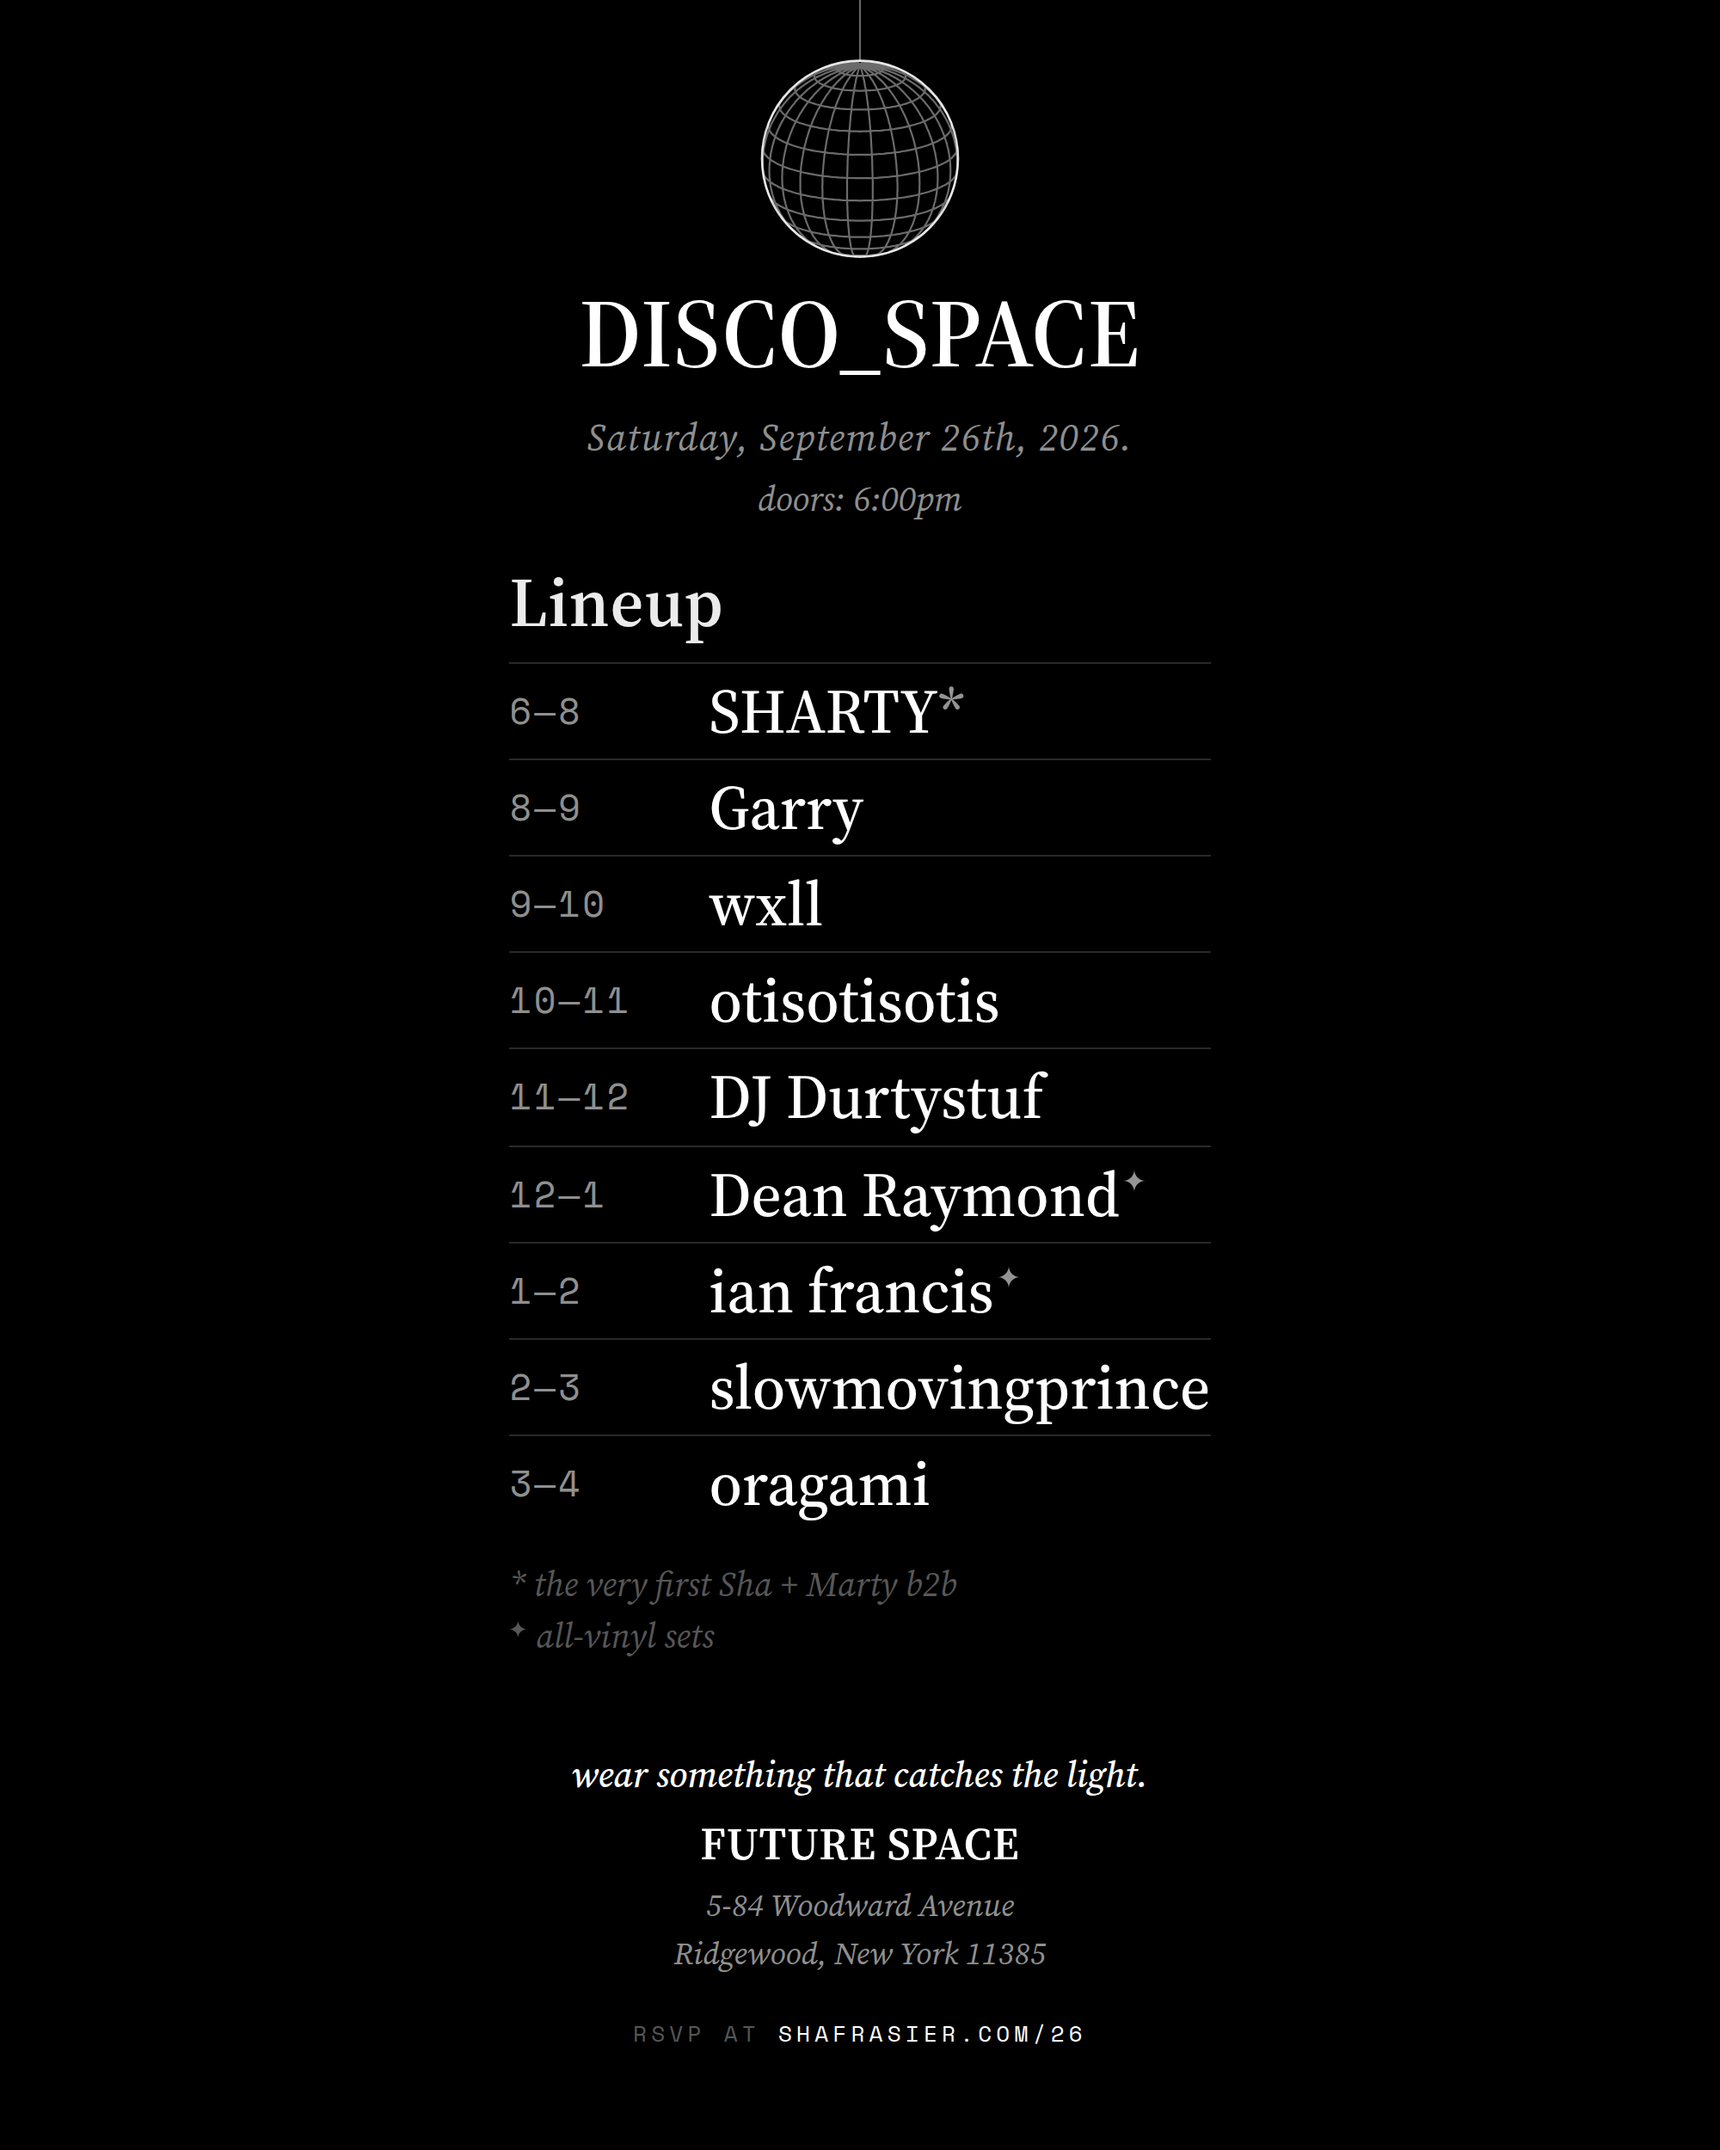
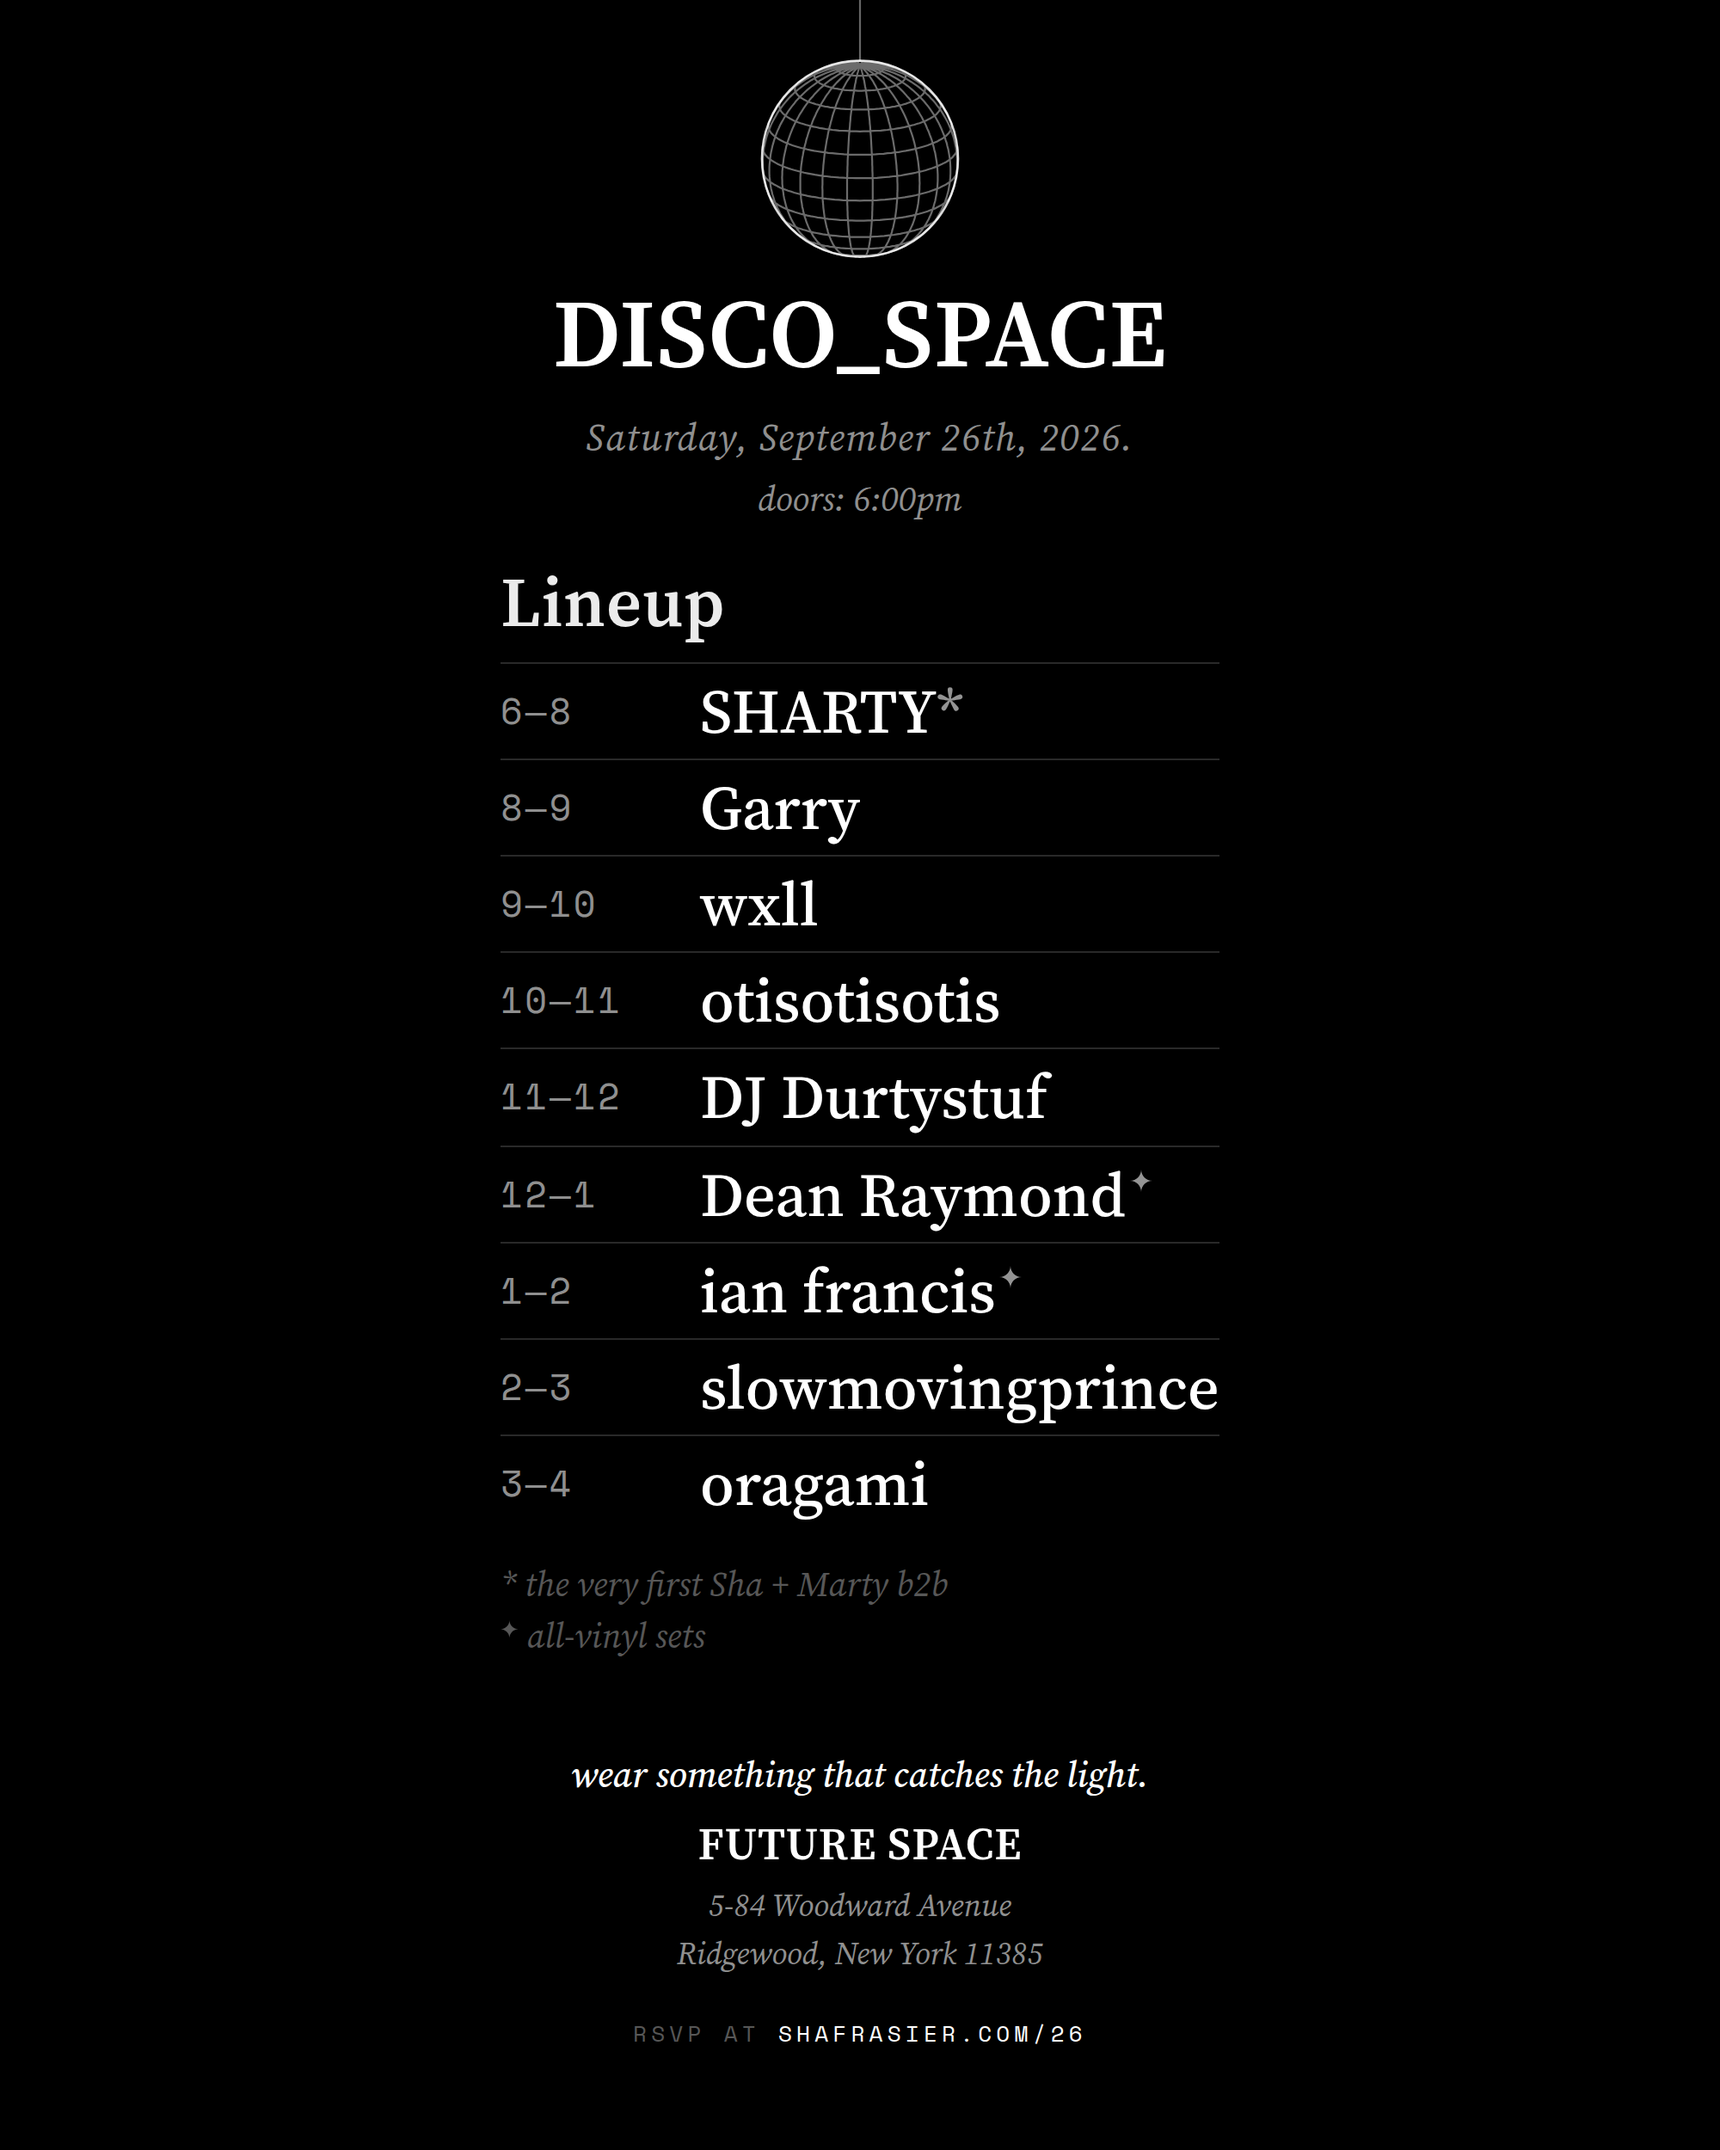
Poster: pin optical sizing, so the type is the page's type
Source Serif's opsz axis was the whole difference. Left free, type this large
resolves to the display cut — hairline serifs, high contrast — which reads as
a different typeface from the one the page draws, even though it is the same
family at the same weight. Rendered side by side against the site's wordmark
at its real 73.6px, the pinned 56px is the same letterform scaled and the
free one is the odd one out.

I chose free deliberately a few rounds ago, on the argument that the site
only pins because it measures the wordmark in a canvas and the measured
instance had to match the drawn one — true, but beside the point. The poster
is the page folded flat. It should carry the page's letterforms, and the
reason the site's pin exists does not make its result wrong here.

Pinned on the body, so the whole sheet matches, not just the wordmark.

Claude-Session: https://claude.ai/code/session_012u9DGjgcEhyf5RTtz1EsMz

diff --git a/26/poster.html b/26/poster.html
@@ -41,13 +41,14 @@
   --label:"Space Mono",ui-monospace,"SF Mono",Menlo,monospace;
 }
 *{box-sizing:border-box}
-/* Optical sizing ON, unlike the site's wordmark. The site pins one instance
-   because it measures the wordmark in a canvas to centre a drawn bar, and the
-   instance it measured had to match the one drawn. Nothing here is measured,
-   and with opsz free the large type gets Source Serif's display cut — finer
-   strokes, more contrast — instead of a 14pt text cut blown up thick. */
+/* Optical sizing OFF, the same instance the site's wordmark is pinned to.
+   Source Serif's opsz axis is the whole difference here: left free, type this
+   large resolves to the display cut — hairline serifs, high contrast — which
+   is a different-looking typeface from the one the page draws. The poster is
+   the page folded flat, so it takes the page's letterforms; pinned, the
+   wordmark at 56px is the site's wordmark exactly, scaled. */
 body{margin:0;background:#000;color:var(--white);font-family:var(--serif);
-  font-optical-sizing:auto;-webkit-font-smoothing:antialiased;
+  font-optical-sizing:none;-webkit-font-smoothing:antialiased;
   display:flex;align-items:center;justify-content:center;min-height:100vh}
 
 .sheet{
